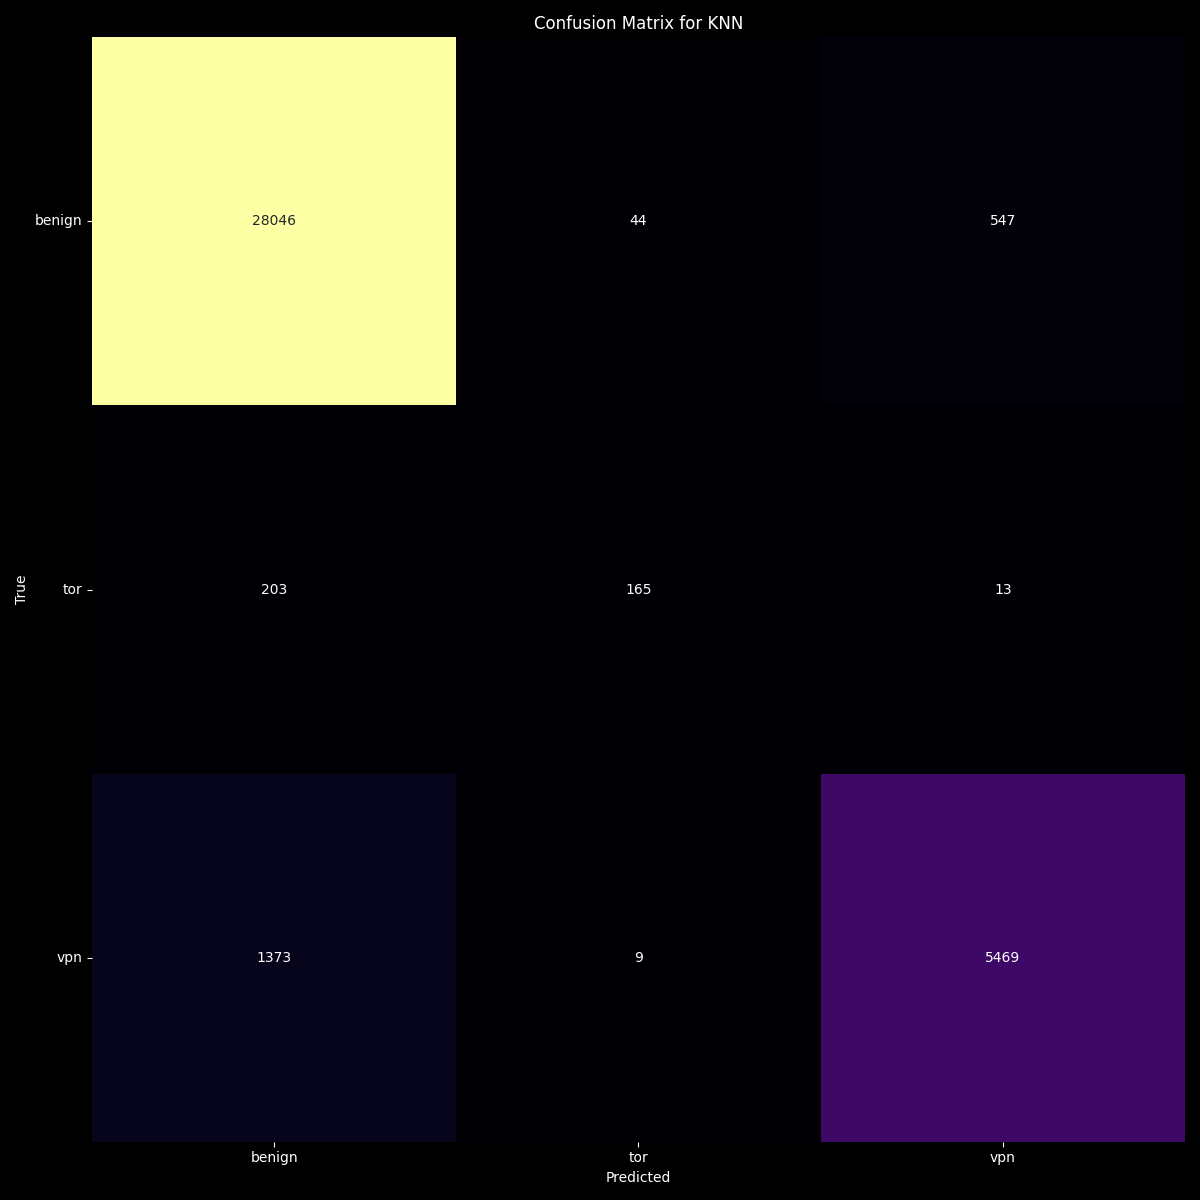
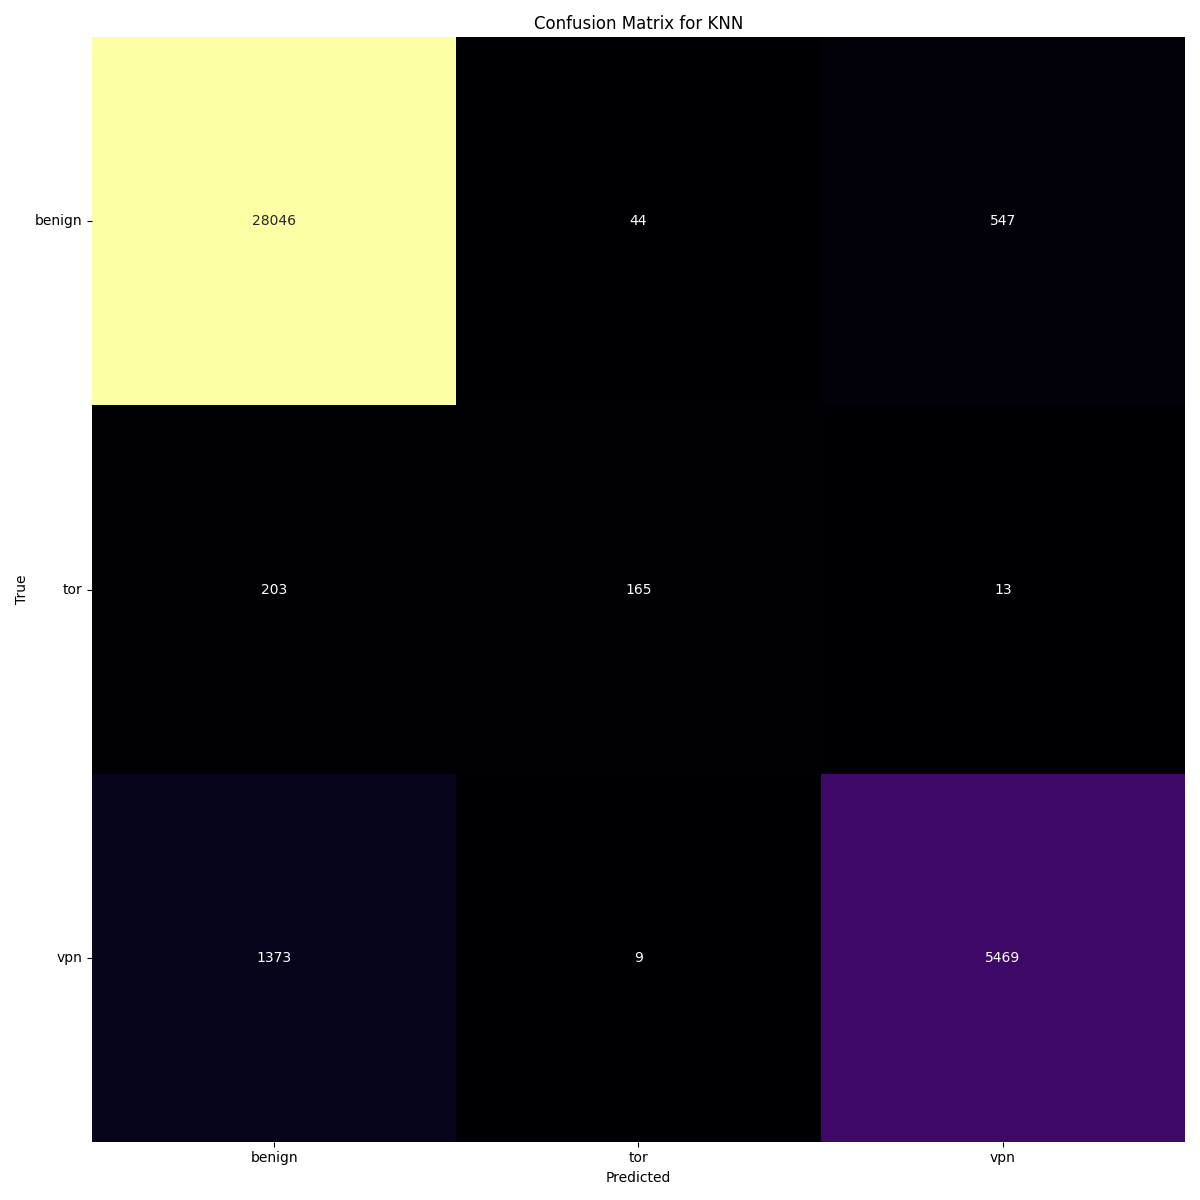
final-4

Changed region(s): [[0.0, 0.0, 1.0, 1.0]]

diff --git a/darknet/src/comparison_graphs.py b/darknet/src/comparison_graphs.py
@@ -150,7 +150,7 @@ class ComparisonGraphs:
         plt.title("ROC Curve", color='white' if darkmode else 'black')
         plt.xlabel("False Positive Rate", color='white' if darkmode else 'black')
         plt.ylabel("True Positive Rate", color='white' if darkmode else 'black')
-        plt.legend(loc="lower right", facecolor='black', labelcolor='white' if darkmode else 'black')
+        plt.legend(loc="lower right", facecolor='black' if darkmode else 'white', labelcolor='white' if darkmode else 'black')
         plt.grid(True, color='gray', alpha=0.2)
         plt.tick_params(colors='white' if darkmode else 'black')
         plt.tight_layout()
@@ -226,7 +226,7 @@ class ComparisonGraphs:
         plt.title("Precision-Recall Curve", color='white' if darkmode else 'black')
         plt.xlabel("Recall", color='white' if darkmode else 'black')
         plt.ylabel("Precision", color='white' if darkmode else 'black')
-        plt.legend(loc="lower left", facecolor='black', labelcolor='white' if darkmode else 'black')
+        plt.legend(loc="lower left", facecolor='black' if darkmode else 'white', labelcolor='white' if darkmode else 'black')
         plt.grid(True, color='gray', alpha=0.2)
         plt.tick_params(colors='white' if darkmode else 'black')
         plt.tight_layout()

diff --git a/darknet/src/main.py b/darknet/src/main.py
@@ -67,7 +67,7 @@ def main():
     graphs.plot_precision_recall_curves(model_name="Random Forest", darkmode=False)
     graphs.plot_runtime_comparison(darkmode=False)
 
-    graphs.plot_confusion_matrix(decoder=data.decode_labels)
+    graphs.plot_confusion_matrix(decoder=data.decode_labels, darkmode=False)
 
     graphs.plot_metric_comparison("accuracy", darkmode=False)
     graphs.plot_metric_comparison("accuracy", darkmode=False)
